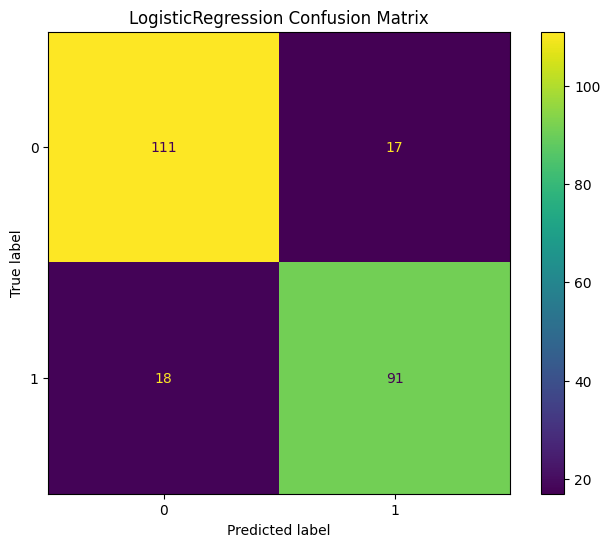
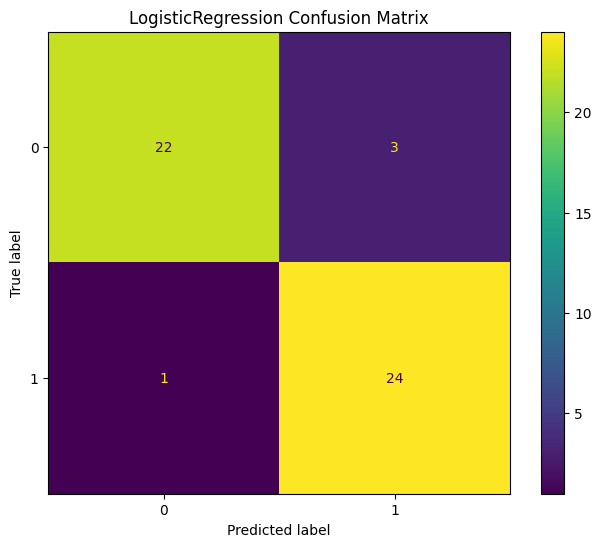
Update github actions

diff --git a/src/app.py b/src/app.py
@@ -28,7 +28,7 @@ logger.setLevel(logging.INFO)
 logger.addHandler(handler)
 logger.propagate = False
 
-# Load model and preprocessor
+# Load model and preprocessor paths
 MODEL_PATH = Path(__file__).parent.parent / "models" / "best_model.pkl"
 PREPROCESSOR_PATH = Path(__file__).parent.parent / "models" / "preprocessor.pkl"
 
@@ -100,19 +100,27 @@ class PrometheusMetricsMiddleware:
 
 
 async def load_model_on_startup():
-    """Load model and preprocessor on startup."""
+    """Load model and preprocessor safely on startup."""
     global model, preprocessor
     try:
         if MODEL_PATH.exists():
             model = joblib.load(MODEL_PATH)
             logger.info(f"Model loaded from {MODEL_PATH}")
             model_loaded_gauge.set(1)
+        else:
+            logger.warning(f"Model file not found at {MODEL_PATH}")
+            model_loaded_gauge.set(0)
+
         if PREPROCESSOR_PATH.exists():
             preprocessor = joblib.load(PREPROCESSOR_PATH)
             logger.info(f"Preprocessor loaded from {PREPROCESSOR_PATH}")
-        model_info_gauge.labels(model_name="best_model", model_version="1.0.0").set(1)
+        else:
+            logger.warning(f"Preprocessor file not found at {PREPROCESSOR_PATH}")
+
+        model_info_gauge.labels(model_name="best_model", model_version="1.0.0").set(1 if model else 0)
     except Exception as e:
         logger.error(f"Error loading model: {e}")
+        model_loaded_gauge.set(0)
 
 
 def validate_prediction_input(data: dict) -> List:
@@ -181,7 +189,6 @@ async def predict(request: Request):
             "ca", "thal"
         ]
         features_df = pd.DataFrame([validated_values], columns=feature_names)
-
         features_processed = preprocessor.transform(features_df)
 
         prediction = model.predict(features_processed)[0]